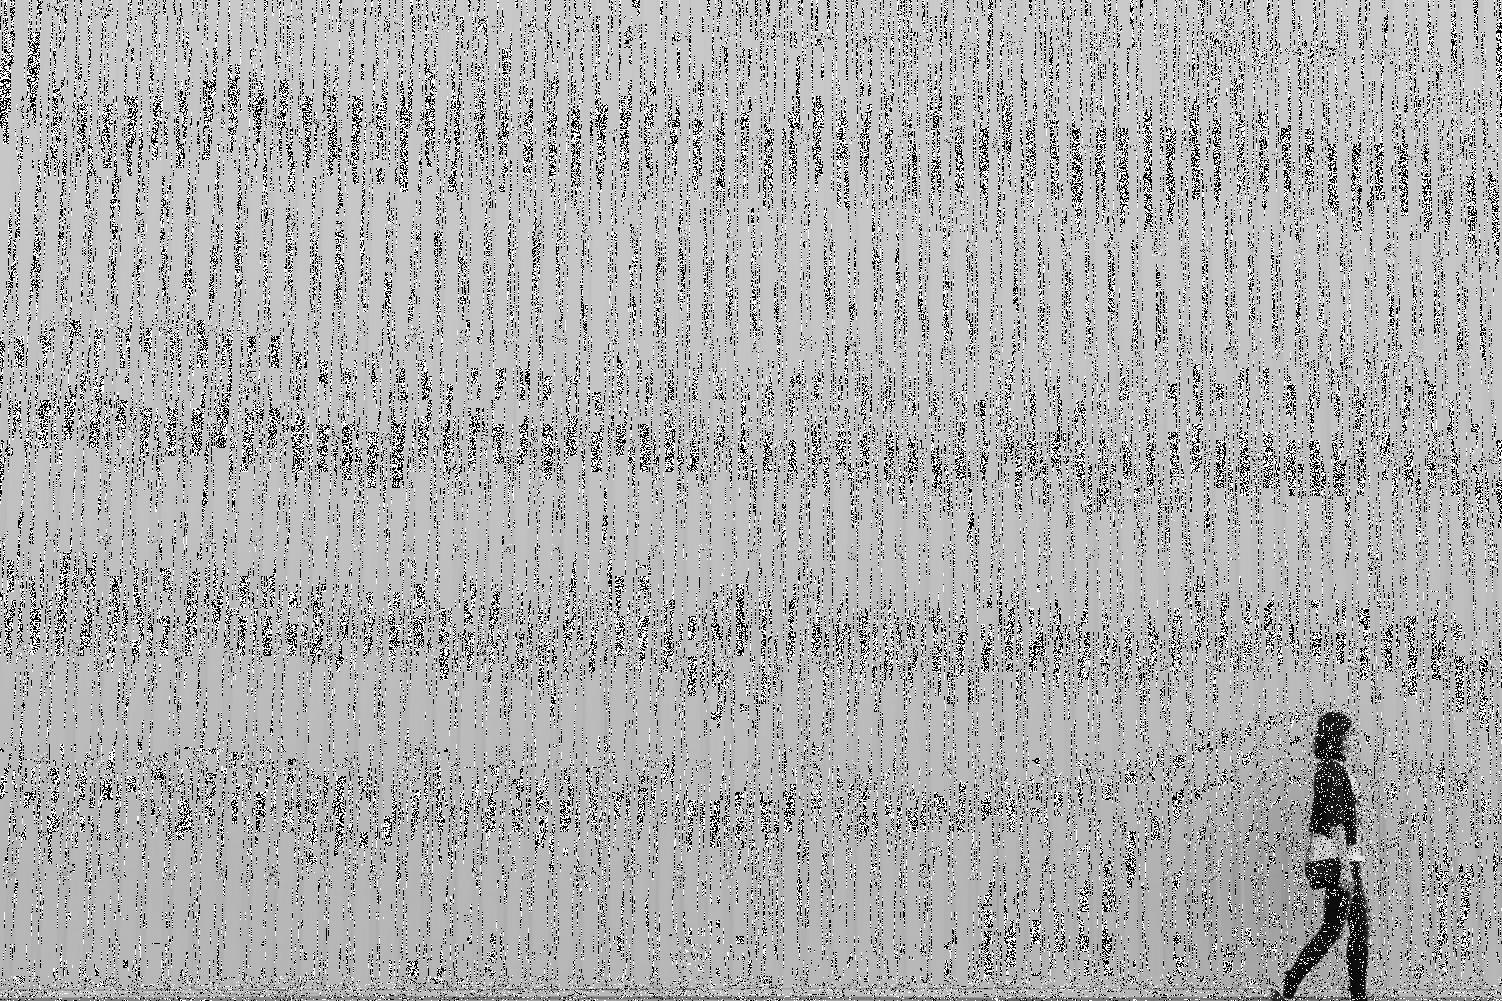
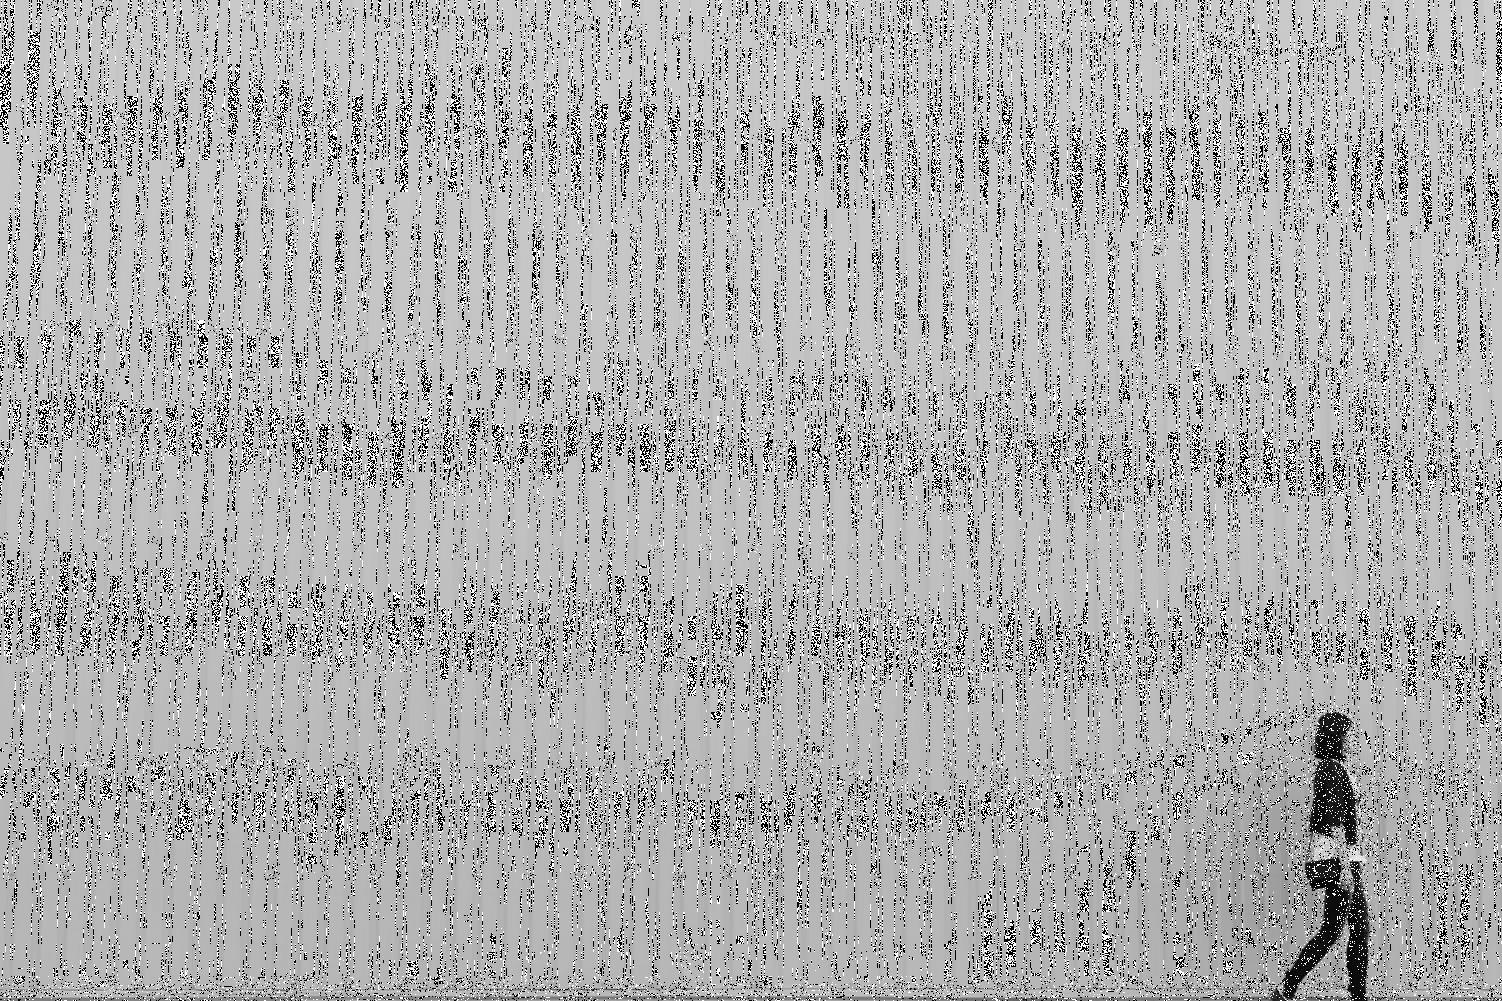
improve day02 work

Changed region(s): [[0.0, 0.0, 1.0, 1.0], [0.1225, 0.8981, 0.1531, 0.9291]]

diff --git a/grade_1_master/digital_images/day02/question3.py b/grade_1_master/digital_images/day02/question3.py
@@ -16,9 +16,9 @@ def mid(array, wigth, height):
             new_array.append(array[i][j])
     return new_array
 
-def part_one():
+def part_one_1():
     """
-    对一副图像加噪声
+    对一副图像加噪声(椒盐噪声)
     """
     with open("source2.jpeg", "rb") as fp:
         im = Image.open(fp).convert("L")
@@ -35,6 +35,30 @@ def part_one():
         im = Image.fromarray(im_converted_arr)
         im.show()
         im.save("salt_noise.jpeg")
+
+def part_one_2():
+    
+    """
+    对一副图像加噪声(高斯噪声)
+    """
+    with open("source2.jpeg", "rb") as fp:
+        im = Image.open(fp).convert("L")
+        im.show()
+        im.save("gray_source2.jpeg")
+        
+        im_wigth, im_height = im.size
+
+        im_arr = np.asarray(im)
+        # 添加均值为 0, 标准差为 64 的加性高斯白噪声
+        random_arr = np.random.normal(0, 64, (im_height, im_wigth))
+        im_converted_arr = im_arr + random_arr
+        # 对比拉伸
+        im_converted_arr = im_converted_arr - np.full((im_height, im_wigth), np.min(im_converted_arr))
+        im_converted_arr = im_converted_arr * 255 / np.max(im_converted_arr)
+        im_converted_arr = im_converted_arr.astype(np.uint8)
+        im = Image.fromarray(im_converted_arr)
+        im.show()
+        im.save("gauss_noise.jpeg")
 
 def part_two():
     """
@@ -98,8 +122,13 @@ def part_four():
         smoothed_im.show()
 
 def main():
-    # part_one()
-    # part_three()
+    # 加椒盐噪声
+    part_one_1()
+    # 加高斯噪声
+    part_one_2()
+    # 进行平滑
+    part_three()
+    # 进行锐化
     part_four()
 
 if __name__ == "__main__":
